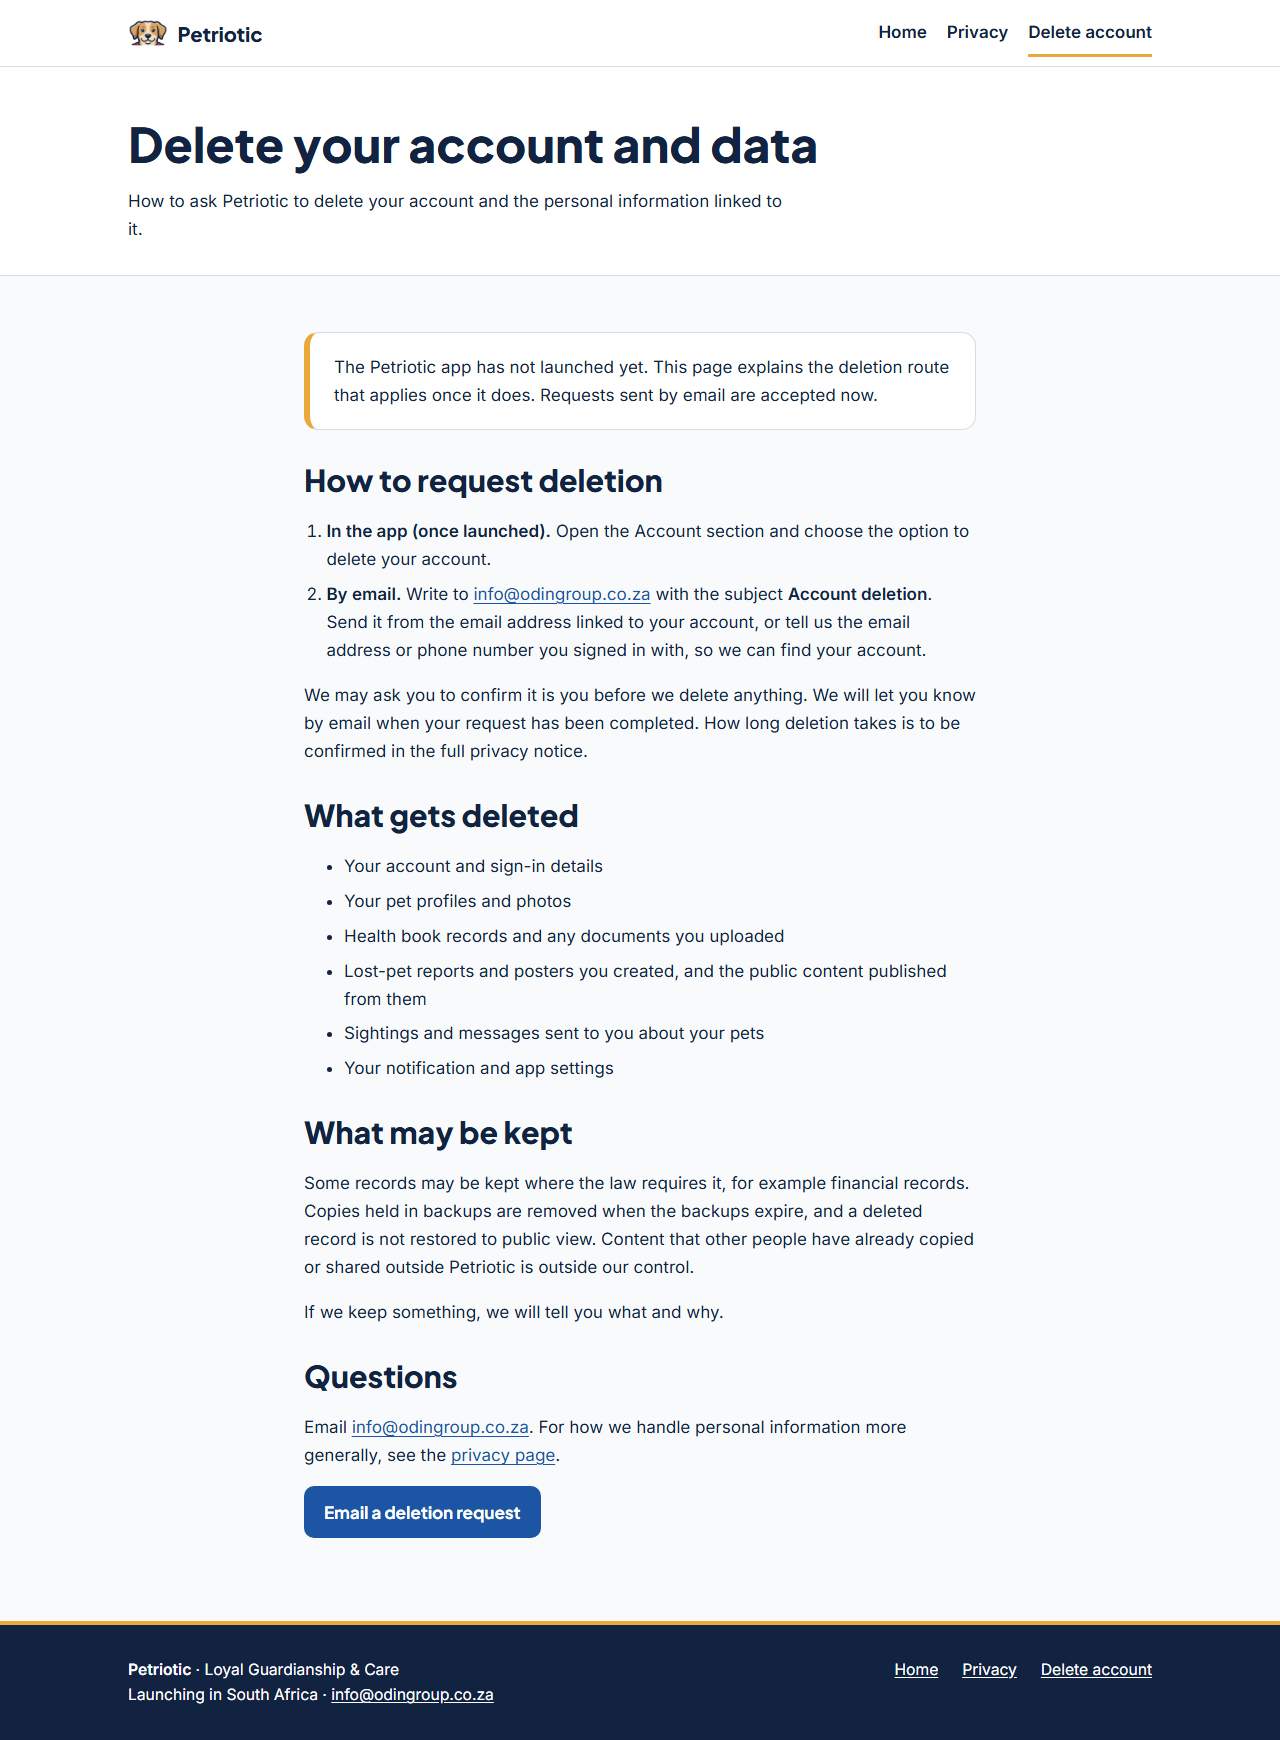
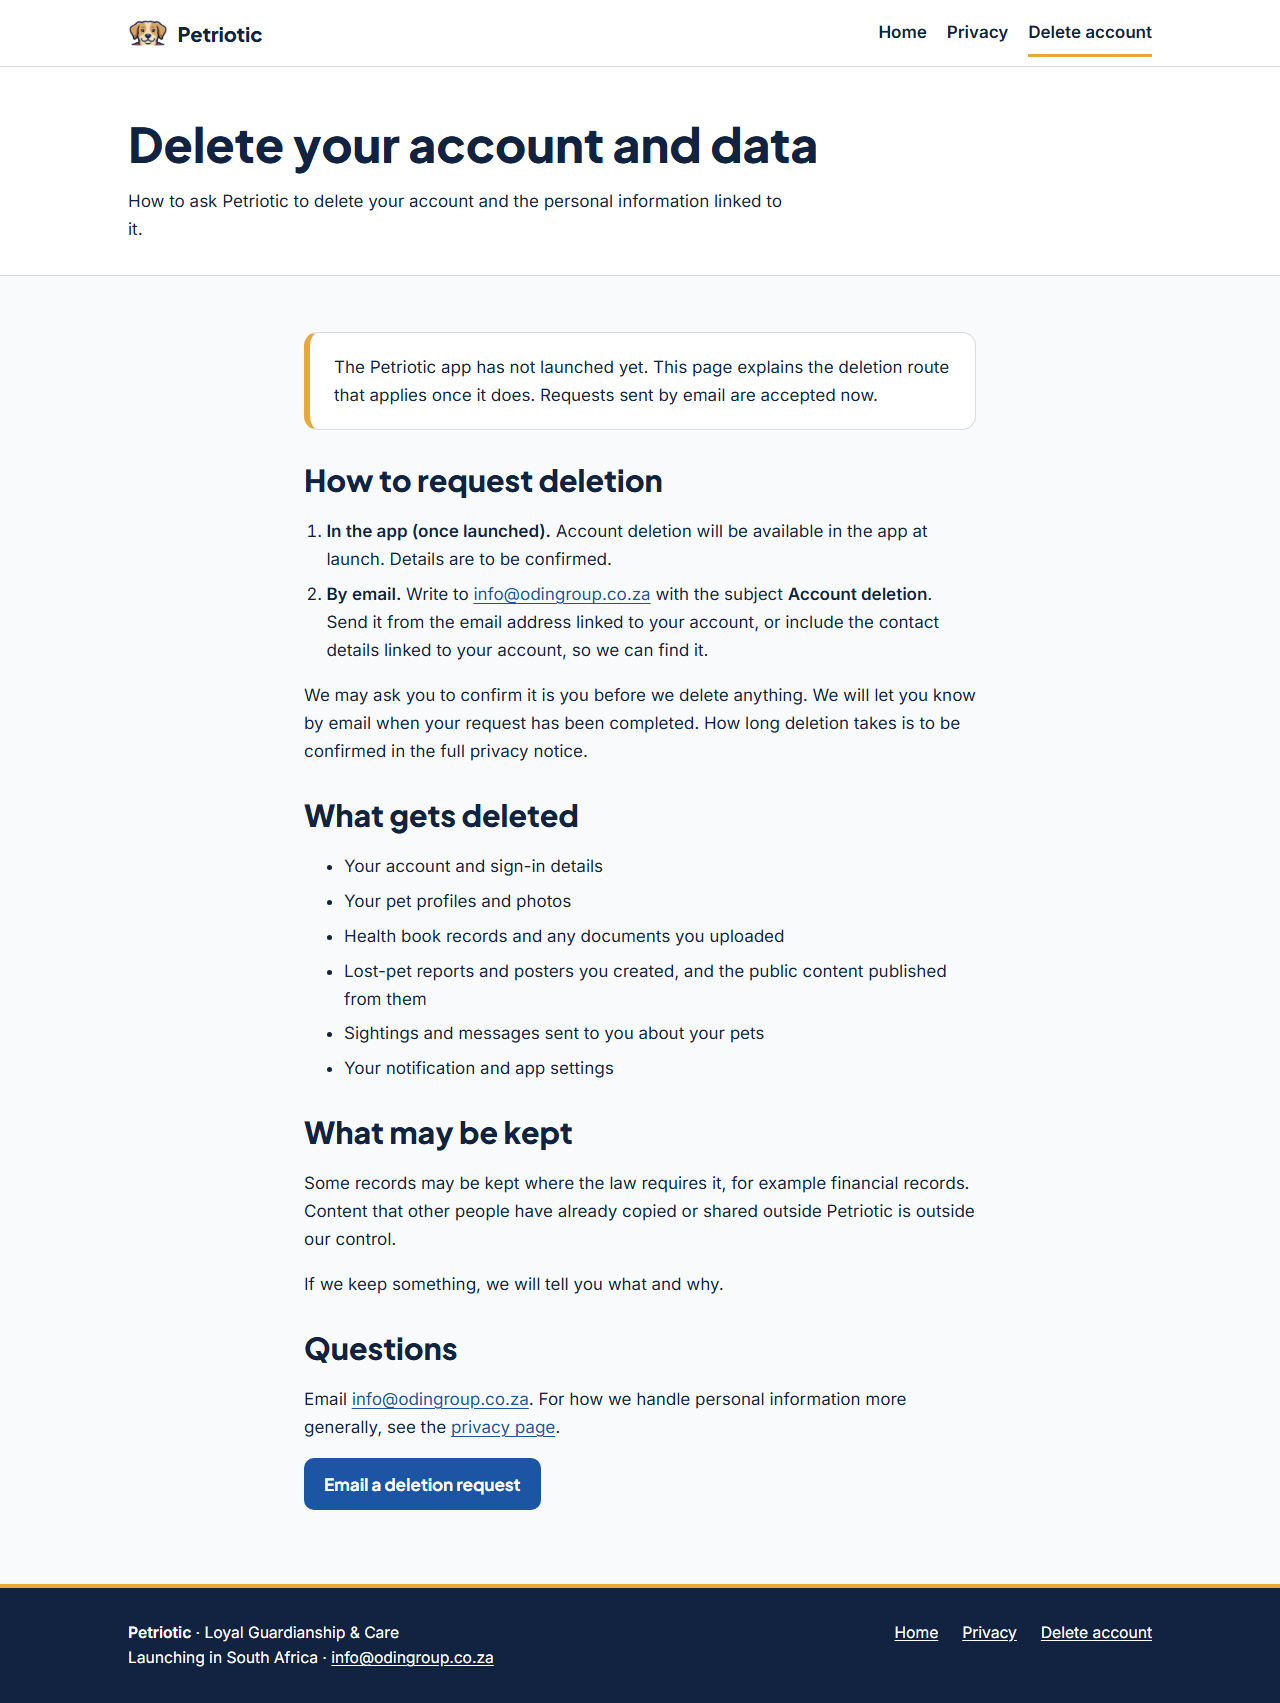
Address review: soften deletion/privacy wording, remove footer strip, drop stray file

diff --git a/delete-account.html b/delete-account.html
@@ -64,8 +64,8 @@
 
         <h2>How to request deletion</h2>
         <ol class="steps">
-          <li><strong>In the app (once launched).</strong> Open the Account section and choose the option to delete your account.</li>
-          <li><strong>By email.</strong> Write to <a href="mailto:info@odingroup.co.za?subject=Account%20deletion">info@odingroup.co.za</a> with the subject <strong>Account deletion</strong>. Send it from the email address linked to your account, or tell us the email address or phone number you signed in with, so we can find your account.</li>
+          <li><strong>In the app (once launched).</strong> Account deletion will be available in the app at launch. Details are to be confirmed.</li>
+          <li><strong>By email.</strong> Write to <a href="mailto:info@odingroup.co.za?subject=Account%20deletion">info@odingroup.co.za</a> with the subject <strong>Account deletion</strong>. Send it from the email address linked to your account, or include the contact details linked to your account, so we can find it.</li>
         </ol>
         <p>We may ask you to confirm it is you before we delete anything. We will let you know by email when your request has been completed. How long deletion takes is to be confirmed in the full privacy notice.</p>
 
@@ -80,7 +80,7 @@
         </ul>
 
         <h2>What may be kept</h2>
-        <p>Some records may be kept where the law requires it, for example financial records. Copies held in backups are removed when the backups expire, and a deleted record is not restored to public view. Content that other people have already copied or shared outside Petriotic is outside our control.</p>
+        <p>Some records may be kept where the law requires it, for example financial records. Content that other people have already copied or shared outside Petriotic is outside our control.</p>
         <p>If we keep something, we will tell you what and why.</p>
 
         <h2>Questions</h2>

diff --git a/privacy.html b/privacy.html
@@ -66,7 +66,7 @@
           <li><strong>Owners decide what is public.</strong> If a pet is reported lost, only the details the owner has approved are made public.</li>
           <li><strong>No selling of health data.</strong> We do not sell health data.</li>
           <li><strong>Your requests.</strong> You can ask to access, correct or delete your personal information using the contact details below.</li>
-          <li><strong>South African law.</strong> The Protection of Personal Information Act (POPIA) is the governing law for personal information in South Africa, where Petriotic launches.</li>
+          <li><strong>South African law.</strong> We will process personal information in line with South Africa&rsquo;s Protection of Personal Information Act (POPIA).</li>
         </ul>
 
         <h2>Still to be confirmed</h2>

diff --git a/styles.css b/styles.css
@@ -44,6 +44,12 @@ body {
 
 main {
   flex: 1 0 auto;
+  display: flex;
+  flex-direction: column;
+}
+
+main > .contact {
+  flex: 1 0 auto;
 }
 
 img {
